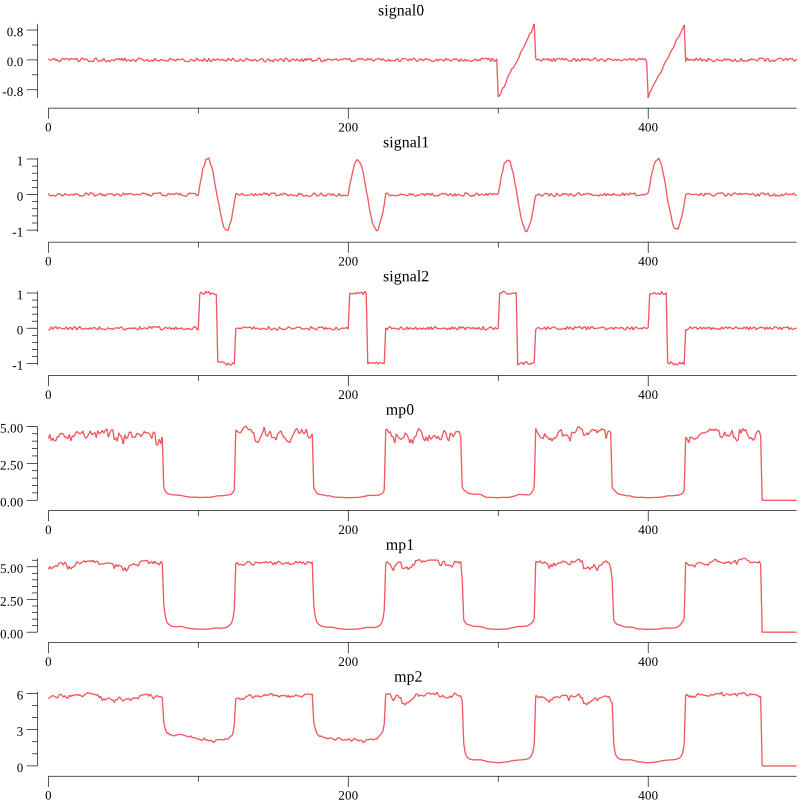
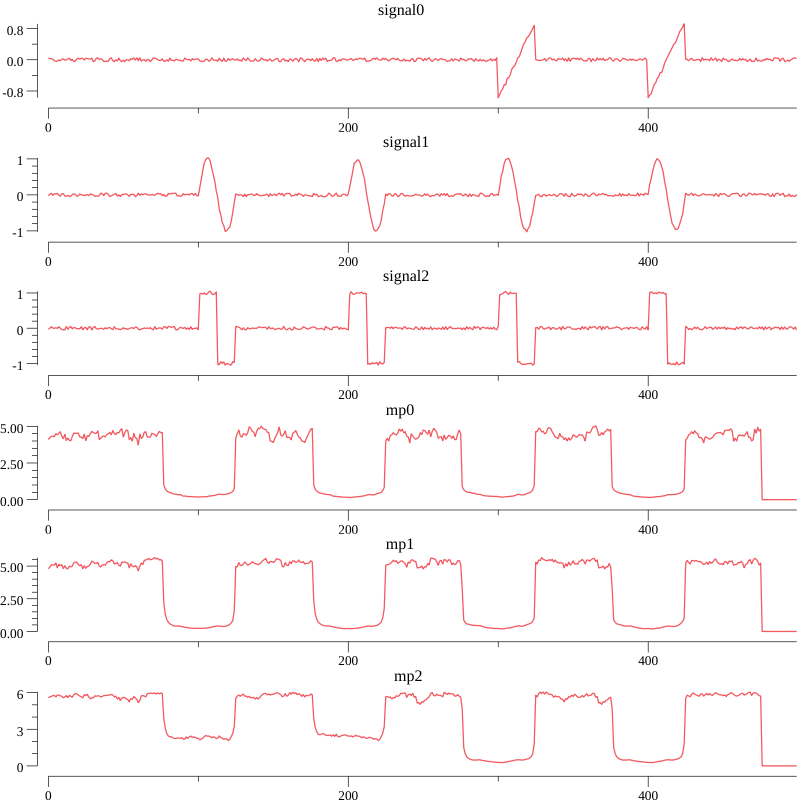
made fix to support joins that are not self-joins in stomp

diff --git a/matrixprofile/matrixprofile.go b/matrixprofile/matrixprofile.go
@@ -367,11 +367,6 @@ type mpResult struct {
 // dot product is available. This should also greatly reduce the number of memory
 // allocations needed to compute an arbitrary timeseries length.
 func (mp *MatrixProfile) Stomp(parallelism int) error {
-	// save the first dot product of the first row that will be used by all future
-	// go routines
-	fft := fourier.NewFFT(mp.N)
-	cachedDot := mp.crossCorrelate(mp.A[:mp.M], fft)
-
 	batchSize := (len(mp.A)-mp.M+1)/parallelism + 1
 	results := make([]chan mpResult, parallelism)
 	for i := 0; i < parallelism; i++ {
@@ -395,7 +390,7 @@ func (mp *MatrixProfile) Stomp(parallelism int) error {
 	wg.Add(parallelism)
 	for batch := 0; batch < parallelism; batch++ {
 		go func(idx int) {
-			result := mp.stompBatch(idx, batchSize, cachedDot, &wg)
+			result := mp.stompBatch(idx, batchSize, &wg)
 			results[idx] <- result
 		}(batch)
 	}
@@ -407,8 +402,12 @@ func (mp *MatrixProfile) Stomp(parallelism int) error {
 	return err
 }
 
-// stompBatch processes a batch set of rows in matrix profile calculation. Each batch will comput its first row's dot product and build the subsequent matrix profile and matrix profile index using the stomp iterative algorithm. This also uses the very first row's dot product, cachedDot, to update the very first index of the current row's dot product.
-func (mp MatrixProfile) stompBatch(idx, batchSize int, cachedDot []float64, wg *sync.WaitGroup) mpResult {
+// stompBatch processes a batch set of rows in matrix profile calculation. Each batch
+// will compute its first row's dot product and build the subsequent matrix profile and
+// matrix profile index using the stomp iterative algorithm. This also uses the very
+// first row's dot product to update the very first index of the current row's
+// dot product.
+func (mp MatrixProfile) stompBatch(idx, batchSize int, wg *sync.WaitGroup) mpResult {
 	defer wg.Done()
 	if idx*batchSize+mp.M > len(mp.A) {
 		// got an index larger than mp.A so ignore
@@ -438,6 +437,7 @@ func (mp MatrixProfile) stompBatch(idx, batchSize int, cachedDot []float64, wg *
 
 	// iteratively update for this batch each row's matrix profile and matrix
 	// profile index
+	var nextDotZero float64
 	for i := 1; i < batchSize; i++ {
 		if idx*batchSize+i-1 >= len(mp.A) || idx*batchSize+i+mp.M-1 >= len(mp.A) {
 			// looking for an index beyond the length of mp.A so ignore and move one
@@ -447,7 +447,15 @@ func (mp MatrixProfile) stompBatch(idx, batchSize int, cachedDot []float64, wg *
 		for j := mp.N - mp.M; j > 0; j-- {
 			dot[j] = dot[j-1] - mp.B[j-1]*mp.A[idx*batchSize+i-1] + mp.B[j+mp.M-1]*mp.A[idx*batchSize+i+mp.M-1]
 		}
-		dot[0] = cachedDot[idx*batchSize+i]
+
+		// recompute the first cross correlation since the algorithm is only valid for
+		// points after it. Previous optimization of using a precomputed cache ONLY applies
+		// if we're doing a self-join and is invalidated with AB-joins of different time series
+		nextDotZero = 0
+		for k := 0; k < mp.M; k++ {
+			nextDotZero += mp.A[idx*batchSize+i+k] * mp.B[k]
+		}
+		dot[0] = nextDotZero
 		if err = mp.calculateDistanceProfile(dot, idx*batchSize+i, profile); err != nil {
 			return mpResult{nil, nil, err}
 		}
@@ -704,13 +712,13 @@ func (mp MatrixProfile) GetAV() ([]float64, error) {
 	var av []float64
 	switch mp.AV {
 	case DefaultAV:
-		av = MakeDefaultAV(mp.A, mp.M)
+		av = MakeDefaultAV(mp.B, mp.M)
 	case ComplexityAV:
-		av = MakeCompexityAV(mp.A, mp.M)
+		av = MakeCompexityAV(mp.B, mp.M)
 	case MeanStdAV:
-		av = MakeMeanStdAV(mp.A, mp.M)
+		av = MakeMeanStdAV(mp.B, mp.M)
 	case ClippingAV:
-		av = MakeClippingAV(mp.A, mp.M)
+		av = MakeClippingAV(mp.B, mp.M)
 	default:
 		return nil, fmt.Errorf("invalid annotation vector specified with matrix profile, %s", mp.AV)
 	}

diff --git a/matrixprofile/matrixprofile_test.go b/matrixprofile/matrixprofile_test.go
@@ -541,7 +541,7 @@ func TestTopKDiscords(t *testing.T) {
 	}
 
 	for _, d := range testdata {
-		mp := MatrixProfile{A: a, M: m, MP: d.mp, AV: DefaultAV}
+		mp := MatrixProfile{A: a, B: a, M: m, MP: d.mp, AV: DefaultAV}
 		discords, err := mp.TopKDiscords(d.k, d.exzone)
 		if err != nil {
 			t.Errorf("Got error %v on %v", err, d)
